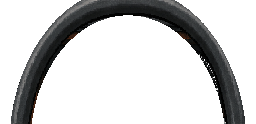
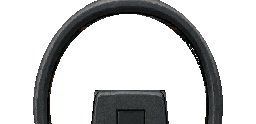
Cabine da viatura refeita: proporção correta, volante inteiro e mostradores da arte
- Importação de cabines: o recorte do painel não descia junto com a margem do
  topo e a arte saía esticada na vertical (volante oval, mostradores tortos).
- Viatura em escala menor: volante inteiro centralizado com o miolo à vista.
- Conta-giros e velocímetro usam a própria arte; o jogo só desenha os ponteiros,
  na escala medida (0 a 146°, 250° de abertura).
- Atrás do miolo do volante, coluna de direção escura em vez de borrão; nas
  laterais de telas largas o painel continua liso e o vidro lateral fica livre.
- Hodômetro e P R N D 2 1 reposicionados.

Claude-Session: https://claude.ai/code/session_01MLD9VR7gkmY4w6a9beZcp6

diff --git a/src/cockpit.ts b/src/cockpit.ts
@@ -38,7 +38,9 @@ interface CockpitArt {
 // Mostrador redesenhado em pixels (os números da arte ficam ilegíveis em 256 px):
 // centro inteiro medido na arte, raio horizontal (o vertical é 8/7 maior), rótulos e
 // fração da escala onde começa a faixa vermelha
-interface Dial { x: number; y: number; r: number; max: number; labels: number[]; tick: number; red: number }
+// face: false = o mostrador da arte já é legível, o jogo só desenha o ponteiro;
+// a0/sweep: onde começa a escala e quanto ela abre (padrão 135° e 270°)
+interface Dial { x: number; y: number; r: number; max: number; labels: number[]; tick: number; red: number; face?: boolean; a0?: number; sweep?: number }
 
 // Mostradores auxiliares, também redesenhados: 'single' (um ponteiro), 'dual' (dois
 // ponteiros no mesmo eixo, em V), 'twin' (dois eixos lado a lado) e 'clock' (relógio)
@@ -80,10 +82,11 @@ const COCKPIT_ART: Record<string, CockpitArt> = {
 // Viatura: painel de sedã com hodômetro e indicador da alavanca funcionando
 COCKPIT_ART.patrol = {
   dash: cp('patrol-dash'), top: cp('patrol-top'), wheel: cp('patrol-wheel'),
-  pivot: [128, 128], speedMax: 240, needle: '#ff3a1a', hub: '#26262a', aux: [],
-  tach: { x: 82, y: 80, r: 31, max: 8, labels: [0, 1, 2, 3, 4, 5, 6, 7, 8], tick: 0.5, red: 6 },
-  speed: { x: 189, y: 80, r: 31, max: 240, labels: [0, 40, 80, 120, 160, 200, 240], tick: 20, red: 999 },
-  odo: { x: 117, y: 51, w: 34, h: 13 }, prnd: { x: 118, y: 71, w: 33, h: 10 },
+  pivot: [128, 105.6], speedMax: 240, needle: '#ff2a1a', hub: '#1a1a1c', aux: [],
+  // escalas medidas na arte: do 0 (146°) ao fim (≈ 36°), 250° de abertura
+  tach: { x: 91, y: 66, r: 25, max: 8, labels: [], tick: 1, red: 6, face: false, a0: 2.55, sweep: 4.36 },
+  speed: { x: 176, y: 66, r: 25, max: 240, labels: [], tick: 20, red: 999, face: false, a0: 2.55, sweep: 4.36 },
+  odo: { x: 119, y: 44, w: 27, h: 11 }, prnd: { x: 120, y: 60, w: 26, h: 8 },
 };
 
 // Corvette C4: arte do Victor com os visores de LCD redesenhados funcionando
@@ -148,10 +151,11 @@ function odometer(c: CanvasRenderingContext2D, ox: number, r: Race, b: Box) {
   const km = Math.max(0, ((r.playerZ - r.track.startZ) * KMH) / 3600);
   const v = String(Math.floor(ODO_BASE + km) % 1e6).padStart(6, '0');
   // cada dígito numa janelinha, como os tambores de um hodômetro mecânico
+  const cw = b.w / 6;
   for (let i = 0; i < 6; i++) {
-    const x = ox + b.x + 1 + i * 5.5;
-    rect(c, x, ART_TOP + b.y + 2, 4.5, b.h - 4, '#0c0c0e');
-    pix(c, v[i], x + 2.25, ART_TOP + b.y + b.h / 2, '#d8dcd8', 1);
+    const x = ox + b.x + i * cw;
+    rect(c, x + 0.5, ART_TOP + b.y + 2, cw - 0.5, b.h - 4, '#0c0c0e');
+    pix(c, v[i], x + cw / 2 + 0.25, ART_TOP + b.y + b.h / 2, '#d8dcd8', 1);
   }
 }
 
@@ -159,10 +163,11 @@ function odometer(c: CanvasRenderingContext2D, ox: number, r: Race, b: Box) {
 function leverIndicator(c: CanvasRenderingContext2D, ox: number, r: Race, b: Box) {
   const sel = r.state === 'ticket' || r.state === 'pullover' && r.speed < 1 ? 'P' : !r.auto && r.gear < 2 ? String(r.gear + 1) : 'D';
   const keys = ['P', 'R', 'N', 'D', '2', '1'];
+  const cw = b.w / keys.length;
   keys.forEach((k, i) => {
-    const x = ox + b.x + 0.5 + i * 5.5, y = ART_TOP + b.y + 1;
-    if (k === sel) rect(c, x, y, 5, b.h - 2, '#d81818');
-    pix(c, k, x + 2.5, y + (b.h - 2) / 2, k === sel ? '#fff' : '#8a8a90', 1);
+    const x = ox + b.x + i * cw, y = ART_TOP + b.y + 0.5;
+    if (k === sel) rect(c, x, y, cw, b.h - 1, '#d81818');
+    pix(c, k, x + cw / 2, y + (b.h - 1) / 2, k === sel ? '#fff' : '#8a8a90', 1);
   });
 }
 
@@ -171,13 +176,14 @@ const PIX_Y = 8 / 7; // o pixel é mais largo que alto: no eixo vertical tudo é
 
 function artDial(c: CanvasRenderingContext2D, d: Dial, ox: number, frac: number, art: CockpitArt) {
   const cx = ox + d.x, cy = ART_TOP + d.y, r = d.r, ry = r * PIX_Y;
+  const a0 = d.a0 ?? Math.PI * 0.75, sweep = d.sweep ?? Math.PI * 1.5;
+  if (d.face === false) return needle(c, cx, cy, r, a0 + sweep * Math.max(0, Math.min(1.02, frac)), art);
   // fundo preto (por linhas, sem antialias), por cima do mostrador da arte
   c.fillStyle = '#050506';
   for (let dy = -Math.floor(ry); dy <= Math.floor(ry); dy++) {
     const hw = Math.round(r * Math.sqrt(Math.max(0, 1 - (dy / ry) ** 2)));
     c.fillRect(cx - hw, cy + dy, hw * 2 + 1, 1);
   }
-  const a0 = Math.PI * 0.75, sweep = Math.PI * 1.5;
   const at = (a: number, rr: number): [number, number] => [cx + 0.5 + Math.cos(a) * rr, cy + 0.5 + Math.sin(a) * rr * PIX_Y];
   const fr = (v: number) => a0 + (sweep * v) / d.max;
   const half = (x: number, y: number) => c.fillRect(Math.round(x * 2) / 2, Math.round(y * 2) / 2, 0.5, 0.5);
@@ -202,8 +208,11 @@ function artDial(c: CanvasRenderingContext2D, d: Dial, ox: number, frac: number,
     const [lx, ly] = at(a, r - 2.3 - Math.abs(Math.cos(a)) * pixWidth(l, 0.5) * 0.5 - Math.abs(Math.sin(a)) * 1.25);
     pix(c, l, lx, ly, v >= d.red ? '#ff5a4a' : '#f2f2f2', 0.5);
   }
-  // ponteiro: do centro exato, traçado em meio pixel (1 px de espessura)
-  const a = a0 + sweep * Math.max(0, Math.min(1.02, frac));
+  needle(c, cx, cy, r, a0 + sweep * Math.max(0, Math.min(1.02, frac)), art);
+}
+
+// ponteiro: do centro exato, traçado em meio pixel (1 px de espessura)
+function needle(c: CanvasRenderingContext2D, cx: number, cy: number, r: number, a: number, art: CockpitArt) {
   const len = r - 2.5;
   const ca = Math.cos(a), sa = Math.sin(a) * PIX_Y;
   c.fillStyle = art.needle;

diff --git a/tools/ref/import_cockpit.py b/tools/ref/import_cockpit.py
@@ -35,12 +35,15 @@ CARS = {
     },
     # viatura: a arte acaba logo à esquerda do volante; o painel se estende repetindo a borda
     'patrol': {
-        'scale': 0.25, 'x0': -5, 'y0': 212,
+        'scale': 0.2, 'x0': -133, 'y0': 198,   # volante inteiro no centro, com o miolo à vista
         'gauges': {'tach': (324, 491, 127), 'speed': (751, 491, 127)},
         # hodômetro e indicador de marcha: fundo liso, o jogo desenha os números funcionando
         'lcd': [((26, 26, 28), (462, 389, 598, 438)), ((26, 26, 28), (466, 462, 598, 494))],
         'top_art': [],  # coluna da porta segue a arte até o teto
-        'left': 'replicate',
+        'left': 'replicate', 'right': 'replicate',
+        'sky_above': 236,
+        'pad_blur': (300, 18),   # nas colunas repetidas, acima do painel é vidro (estrada à vista)
+        'hub_fill': ((30, 30, 32), 575),   # atrás do miolo do volante: coluna de direção escura, sem borrão
     },
     # Corvette C4: painel digital (os visores de LCD são redesenhados funcionando no jogo)
     'zr1': {
@@ -75,11 +78,22 @@ def main():
     tpad = max(0, -ty0)
     canvas = cv2.copyMakeBorder(full, tpad, max(0, y1 - full.shape[0]), 0, 0, cv2.BORDER_REPLICATE)
     y0 += tpad
+    y1 += tpad  # o recorte do painel também desce (sem isso a arte saía esticada na vertical)
     ty0 += tpad
     # onde a arte acaba nas laterais, espelha (fica natural; repetir a coluna vira listras)
     canvas = cv2.copyMakeBorder(canvas, 0, 0, pad_x0, pad_x1, cv2.BORDER_REFLECT)
     if cfg.get('left') == 'replicate':  # espelhar duplicaria volante e mostrador: repete a borda
         canvas[:, :pad_x0] = canvas[:, pad_x0:pad_x0 + 1]
+    if cfg.get('right') == 'replicate' and pad_x1:
+        canvas[:, -pad_x1:] = canvas[:, -pad_x1 - 1:-pad_x1]
+    padcols = np.zeros(canvas.shape[1], bool)  # colunas que não vêm da arte
+    if cfg.get('left') == 'replicate': padcols[:pad_x0] = True
+    if cfg.get('right') == 'replicate' and pad_x1: padcols[-pad_x1:] = True
+    if 'pad_blur' in cfg:  # a borda repetida corta saídas de ar e botões: vira listras; suaviza na vertical
+        ys, sig = cfg['pad_blur']
+        ys += tpad
+        soft = cv2.GaussianBlur(canvas, (1, 0), sigmaX=0.1, sigmaY=sig)
+        canvas[ys:, padcols] = soft[ys:, padcols]
     if 'fill_left' in cfg:  # espelhar daria um "bico" (pilar dobrado): faz uma coluna lisa
         canvas[:, :pad_x0] = cfg['fill_left']
     img = canvas[y0:y1, x0 + pad_x0:x1 + pad_x0].copy()
@@ -123,6 +137,10 @@ def main():
         if ff[0, x] == 1:
             cv2.floodFill(ff, msk, (x, 0), 2)
     sky = ff == 2
+    if 'sky_above' in cfg:
+        pc = padcols[x0 + pad_x0:x1 + pad_x0]
+        rows = np.arange(h) + (y0 - tpad) < cfg['sky_above']
+        sky |= rows[:, None] & pc[None, :]
     # atrás do aro: a parte cujo vizinho visível mais próximo é o para-brisa também fica
     # transparente; o resto é reconstruído só a partir do painel (sem o branco escorrer)
     known = (hole == 0) & ~sky
@@ -136,6 +154,10 @@ def main():
     near = cv2.dilate(hole, np.ones((41, 41), np.uint8)) > 0
     fill = cv2.inpaint(img, ((~known) | (hot & near)).astype(np.uint8) * 255, 7, cv2.INPAINT_TELEA)
     dash = np.where(known[..., None], img, fill)
+    if 'hub_fill' in cfg:  # o miolo e os raios escondem uma área grande: cor lisa em vez de borrão
+        color, ylim = cfg['hub_fill']
+        hub = (hole > 0) & (m_in > 0) & ((yy + (y0 - tpad)) > ylim) & ~sky
+        dash[hub] = color[::-1]
     # visores de LCD: fundo liso (o conteúdo é desenhado pelo jogo, funcionando)
     for color, (a, b, c, d) in cfg.get('lcd', []):
         (a, b), (c, d) = to_crop(a, b), to_crop(c, d)
@@ -157,8 +179,7 @@ def main():
                 if tsky[yy_, x] == 1:
                     cv2.floodFill(tsky, tm, (x, yy_), 2)
         talpha = tsky != 2
-        if cfg.get('left') == 'replicate':  # acima do painel, à esquerda da coluna, só céu
-            talpha[:, :pad_x0] = False
+        talpha[:, padcols[x0 + pad_x0:x1 + pad_x0]] = False  # acima das colunas repetidas, só céu
         for (a, b, c, d) in cfg['top_art']:
             a, c = a - x0 + pad_x0 - pad_x0, c - x0
             talpha[max(0, b - (ty0 - tpad)):max(0, d - (ty0 - tpad)), max(0, a):max(0, c)] = False
